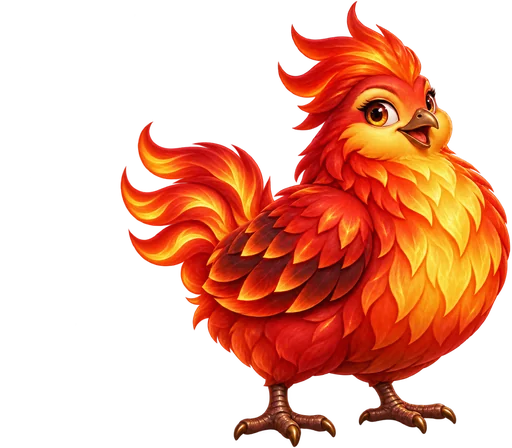
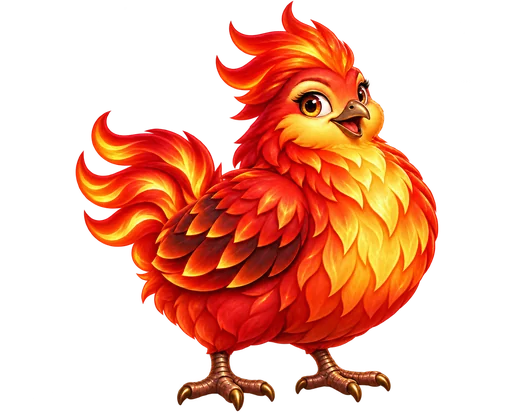
Update birdex 1.0

diff --git a/apps/web/src/features/market/MarketScreen.vue b/apps/web/src/features/market/MarketScreen.vue
@@ -15,6 +15,7 @@ import CoinText from '@/components/CoinText.vue'
 import CoinBalance from '@/components/CoinBalance.vue'
 import FarmBackdrop from '@/components/FarmBackdrop.vue'
 import { playSound } from '@/services/audio'
+import { birdPointsForSale, EGGS_PER_BIRD_POINT } from '@/economy/season'
 import { t } from '@/i18n'
 
 const game = useGameStore()
@@ -26,6 +27,11 @@ const amount = ref(total.value)
 watch(total, (v) => (amount.value = clampSellAmount(amount.value, v)))
 
 const coins = computed(() => sellValue(amount.value))
+/** Сколько BIRD Points даст эта продажа (1 за каждые 100 проданных яиц, остаток копится). */
+const soldEggs = computed(() => game.state?.stats.soldEggs ?? 0)
+const points = computed(() => birdPointsForSale(soldEggs.value, soldEggs.value + amount.value))
+/** Сколько яиц ещё продать до следующего очка. */
+const toNextPoint = computed(() => EGGS_PER_BIRD_POINT - ((soldEggs.value + amount.value) % EGGS_PER_BIRD_POINT))
 const step = computed(() => Math.max(1, Math.round(total.value / 20)))
 /** Заполнение ползунка в % — для золотой полосы слева от бегунка. */
 const fill = computed(() => (total.value > 0 ? (amount.value / total.value) * 100 : 0))
@@ -55,6 +61,9 @@ async function sell() {
   const res = await game.sellEggs(amount.value)
   if (res) {
     ui.toast(t('market.sold', { eggs: formatNumber(res.eggsSold), coins: formatNumber(res.coinsReceived) }), 'success')
+    if (res.birdPointsAwarded > 0) {
+      setTimeout(() => ui.toast(t('market.pointsGot', { n: formatNumber(res.birdPointsAwarded) }), 'success'), 350)
+    }
     amount.value = game.balance?.eggs ?? 0
   }
 }
@@ -125,6 +134,10 @@ async function sell() {
       <div class="gain" :class="{ bump }" @animationend="bump = false">
         <CoinIcon :size="40" class="gain-coin" />
         <span>{{ formatNumber(coins) }}</span>
+      </div>
+      <div class="bp">
+        <span v-if="points > 0" class="bp-gain">+{{ formatNumber(points) }} 💎 {{ t('season.pointsShort') }}</span>
+        <span v-else class="muted">{{ t('market.pointsNext', { n: formatNumber(toNextPoint) }) }}</span>
       </div>
       <PrimaryButton variant="gold" :disabled="amount <= 0" :loading="game.pending === 'sell'" @click="sell">
         {{ total > 0 ? t('market.sell') : t('market.empty') }}
@@ -200,6 +213,10 @@ async function sell() {
 }
 .chip.on { background: linear-gradient(180deg, #ffcf5a, var(--gold)); border-color: var(--gold-dark); color: #4a2a05; }
 .chip:disabled { opacity: 0.4; }
+
+/* BIRD Points за продажу */
+.bp { font-size: 13px; font-weight: 800; text-align: center; }
+.bp-gain { color: #8fd3ff; text-shadow: 0 0 8px rgba(120, 200, 255, 0.5); }
 
 /* Чек */
 .receipt {

diff --git a/apps/web/src/features/farm/FarmScene.vue b/apps/web/src/features/farm/FarmScene.vue
@@ -52,7 +52,11 @@ function poke(ev: PointerEvent) {
 <template>
   <section ref="scene" class="scene">
     <div class="rate"><EggIcon :size="16" /> {{ t('farm.perHour', { n: perHour }) }}</div>
-    <button class="pick" @click="$emit('pick')">🔄 {{ t('farm.chooseChicken') }}</button>
+    <button class="pick" @click="$emit('pick')">
+      <span class="pick-ava"><ChickenAvatar :chicken-key="chickenKey ?? 'farm_hen'" :size="26" :idle="false" /></span>
+      <span class="pick-text">{{ t('farm.chooseChicken') }}</span>
+      <span class="pick-arrows" aria-hidden="true">⇄</span>
+    </button>
 
     <button v-if="bgTotal > 1" class="arrow left" :aria-label="t('farm.prevBg')" @click="$emit('prevBg')">‹</button>
     <button v-if="bgTotal > 1" class="arrow right" :aria-label="t('farm.nextBg')" @click="$emit('nextBg')">›</button>
@@ -108,12 +112,27 @@ function poke(ev: PointerEvent) {
   75% { transform: translateX(-50%) translateY(0) scale(1.04, 0.96); }
   100% { transform: translateX(-50%) scale(1, 1); }
 }
-.rate, .pick {
-  position: absolute; top: 4px; padding: 6px 10px; border-radius: 99px;
-  background: rgba(0, 0, 0, 0.5); font-size: 13px;
+.rate {
+  position: absolute; top: 4px; left: 0; padding: 6px 10px; border-radius: 99px;
+  background: rgba(0, 0, 0, 0.5); font-size: 13px; display: flex; align-items: center; gap: 4px;
 }
-.rate { left: 0; display: flex; align-items: center; gap: 4px; }
-.pick { right: 0; }
+/* Кнопка "Выбрать курицу": деревянная плашка в золотой рамке с портретом текущей курицы. */
+.pick {
+  position: absolute; top: 0; right: 0; z-index: 3;
+  display: flex; align-items: center; gap: 6px; padding: 3px 10px 3px 3px;
+  border-radius: 14px; border: 2px solid var(--gold);
+  background: linear-gradient(180deg, #7a5130 0%, #4a2f1a 100%);
+  box-shadow: 0 3px 0 #2a1a0d, inset 0 1px 0 rgba(255, 230, 160, 0.35), 0 0 12px rgba(245, 184, 46, 0.35);
+  color: var(--cream); font-size: 13px; font-weight: 900; text-shadow: 0 1px 0 rgba(0, 0, 0, 0.5);
+  transition: transform 0.1s, box-shadow 0.1s;
+}
+.pick:active { transform: translateY(2px); box-shadow: 0 1px 0 #2a1a0d, inset 0 1px 0 rgba(255, 230, 160, 0.35); }
+.pick-ava {
+  width: 30px; height: 30px; border-radius: 10px; overflow: hidden; display: grid; place-items: center;
+  background: radial-gradient(circle at 50% 35%, #ffe7a3, #d9982a 70%, #9a6412);
+  box-shadow: inset 0 0 0 2px rgba(255, 245, 210, 0.6);
+}
+.pick-arrows { color: var(--gold); font-size: 15px; line-height: 1; }
 .arrow {
   position: absolute; top: 52%; transform: translateY(-50%);
   width: 40px; height: 56px; border-radius: var(--radius-sm);

diff --git a/apps/web/src/features/farm/OfflineCard.vue b/apps/web/src/features/farm/OfflineCard.vue
@@ -1,5 +1,5 @@
 <script setup lang="ts">
-import { computed, ref } from 'vue'
+import { computed } from 'vue'
 import { useGameStore } from '@/stores/game'
 import PrimaryButton from '@/components/PrimaryButton.vue'
 import ProgressBar from '@/components/ProgressBar.vue'
@@ -21,7 +21,6 @@ const full = computed(() => {
   const b = game.balance
   return !!b && b.eggs >= b.storageCapacity
 })
-const lastActivity = ref<{ eggs: number; points: number } | null>(null)
 
 async function collect() {
   // Нечего собирать — звук ошибки и тряска кнопки (без запроса на сервер).
@@ -34,7 +33,6 @@ async function collect() {
   }
   const res = await game.collect()
   if (res && res.collected > 0) {
-    lastActivity.value = { eggs: res.collected, points: res.birdPointsAwarded }
     emit('collected', res.collected)
   }
 }
@@ -68,16 +66,6 @@ async function collect() {
         :color="full ? 'var(--red-accent)' : 'var(--egg-shell)'"
       />
     </div>
-    <div v-if="lastActivity" class="points">
-      <div class="row">
-        <span class="muted small">{{ t('farm.activity') }}</span>
-        <span class="gain">+{{ formatNumber(lastActivity.points) }} 💎 {{ t('season.pointsShort') }}</span>
-      </div>
-      <div class="row">
-        <span class="muted small">{{ t('season.balance') }}</span>
-        <span class="total">{{ formatNumber(game.season?.points ?? 0) }} 💎</span>
-      </div>
-    </div>
   </div>
 </template>
 
@@ -87,6 +75,4 @@ async function collect() {
 .amount { display: flex; align-items: center; gap: 6px; font-size: 26px; font-weight: 900; }
 .empty :deep(.btn) { filter: saturate(0.5) brightness(0.8); }
 .storage { display: flex; flex-direction: column; gap: 4px; }
-.points { padding-top: 2px; display: flex; flex-direction: column; gap: 4px; }
-.gain, .total { font-size: 13px; font-weight: 900; color: var(--gold); }
 </style>

diff --git a/apps/web/src/services/mockApi.ts b/apps/web/src/services/mockApi.ts
@@ -11,7 +11,7 @@ import { rewardStatus, effectiveStreakDay, rewardAmount } from '@/economy/reward
 import { maxPlausibleEggs } from '@/economy/playDifficulty'
 import { energyBuyCost, energyUpgradeCost, ENERGY_MAX_LEVEL } from '@/economy/energy'
 import { storageUpgradeCost, STORAGE_MAX_LEVEL } from '@/economy/storage'
-import { birdPointsForCollect } from '@/economy/season'
+import { birdPointsForSale } from '@/economy/season'
 import { findPromo, normalizeCode } from '@/config/promo'
 import type { GameState } from '@/types/game'
 import { ApiError, type GameApi, type PlaySessionTicket } from './apiTypes'
@@ -115,9 +115,7 @@ export const mockApi: GameApi = {
     })
     s.balance.eggs += collected
     s.lastProductionAt = now
-    const birdPointsAwarded = birdPointsForCollect(collected)
-    s.season.points += birdPointsAwarded
-    return { collected, birdPointsAwarded, state: commit() }
+    return { collected, state: commit() }
   },
 
   async sellEggs(amount) {
@@ -130,7 +128,12 @@ export const mockApi: GameApi = {
     s.balance.eggs -= eggs
     s.balance.coins += coins
     s.stats.soldCoins += coins // с этого пригласившему идёт 12%
-    return { eggsSold: eggs, coinsReceived: coins, state: commit() }
+    // BIRD Points: 1 за каждые 100 проданных яиц (остаток копится).
+    const soldBefore = s.stats.soldEggs ?? 0
+    s.stats.soldEggs = soldBefore + eggs
+    const birdPointsAwarded = birdPointsForSale(soldBefore, s.stats.soldEggs)
+    s.season.points += birdPointsAwarded
+    return { eggsSold: eggs, coinsReceived: coins, birdPointsAwarded, state: commit() }
   },
 
   async buyChicken(key) {

diff --git a/apps/web/src/economy/season.ts b/apps/web/src/economy/season.ts
@@ -1,8 +1,16 @@
 export const SEASON_DAYS = 120
 export const SEASON_MS = SEASON_DAYS * 24 * 60 * 60 * 1000
 
-export function birdPointsForCollect(eggs: number): number {
-  return eggs > 0 ? Math.max(1, Math.ceil(eggs / 100)) : 0
+/** Сколько проданных яиц дают 1 BIRD Point. */
+export const EGGS_PER_BIRD_POINT = 100
+
+/**
+ * BIRD Points за продажу: 1 очко за каждые 100 проданных яиц.
+ * Считаем от общего числа проданных яиц, поэтому остаток не теряется:
+ * продал 60, потом 40 — на второй продаже придёт 1 очко.
+ */
+export function birdPointsForSale(soldBefore: number, soldNow: number): number {
+  return Math.floor(soldNow / EGGS_PER_BIRD_POINT) - Math.floor(soldBefore / EGGS_PER_BIRD_POINT)
 }
 
 export function seasonRank(points: number): number {

diff --git a/apps/web/src/services/apiTypes.ts b/apps/web/src/services/apiTypes.ts
@@ -3,8 +3,8 @@
 
 import type { GameState, LeaderboardEntry, Friend, RatingKind } from '@/types/game'
 
-export interface CollectResult { collected: number; birdPointsAwarded: number; state: GameState }
-export interface SellResult { eggsSold: number; coinsReceived: number; state: GameState }
+export interface CollectResult { collected: number; state: GameState }
+export interface SellResult { eggsSold: number; coinsReceived: number; birdPointsAwarded: number; state: GameState }
 export interface RewardResult { coins: number; day: number; state: GameState }
 export interface LeaderboardResult {
   top: LeaderboardEntry[]

diff --git a/apps/web/src/services/mockState.ts b/apps/web/src/services/mockState.ts
@@ -60,6 +60,7 @@ export function syncDerived(state: GameState): void {
   }
   // Старые сохранения без статистики — дополняем, прогресс не сбрасывается.
   state.stats ??= { soldCoins: 0, bestPlay: 0 }
+  state.stats.soldEggs ??= 0
   state.profile.level = levelForXp(state.profile.xp)
   state.balance.storageCapacity = storageCapacity(state.storageLevel)
   state.balance.energyMax = energyMaxForLevel(state.energyLevel)

diff --git a/apps/web/src/types/game.ts b/apps/web/src/types/game.ts
@@ -56,6 +56,8 @@ export interface PlayerProfile {
 export interface PlayerStats {
   /** Всего монет получено с продажи яиц (с этого друг даёт 12% пригласившему). */
   soldCoins: number
+  /** Всего продано яиц (за каждые 100 — 1 BIRD Point). */
+  soldEggs?: number
   /** Рекорд яиц за одну игру в Play. */
   bestPlay: number
 }

diff --git a/apps/web/src/i18n/ru.ts b/apps/web/src/i18n/ru.ts
@@ -74,6 +74,8 @@ export const ru = {
     rate: '1 яйцо = {n} 🪙',
     amount: 'Сколько продать',
     willGet: 'Ты получишь',
+    pointsNext: 'Ещё {n} яиц до +1 💎 BIRD Point',
+    pointsGot: '+{n} 💎 BIRD Points за продажу',
     sold: 'Продано {eggs} яиц → +{coins} 🪙',
     empty: 'Нет яиц для продажи',
   },

diff --git a/apps/web/src/i18n/en.ts b/apps/web/src/i18n/en.ts
@@ -74,6 +74,8 @@ export const en = {
     rate: '1 egg = {n} coins',
     amount: 'Amount to sell',
     willGet: 'You will get',
+    pointsNext: '{n} more eggs to +1 💎 BIRD Point',
+    pointsGot: '+{n} 💎 BIRD Points for selling',
     sold: 'Sold {eggs} eggs -> +{coins} coins',
     empty: 'No eggs to sell',
   },
